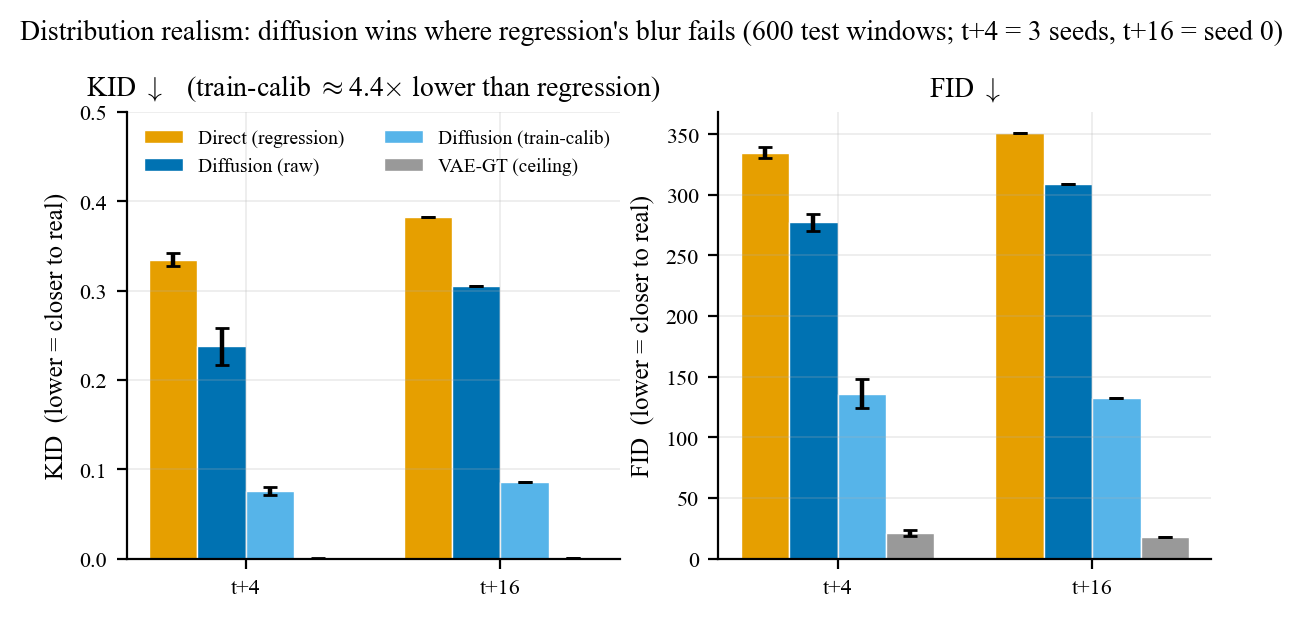
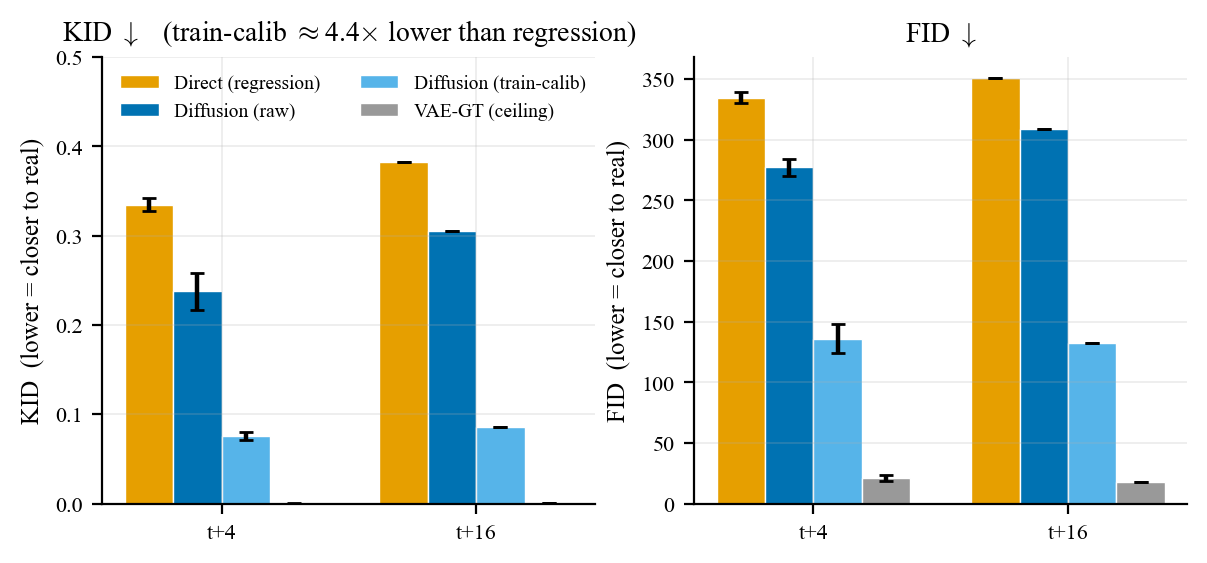
Remove top title from fig_fidkid in script and artifacts

diff --git a/scripts/make_report_figures.py b/scripts/make_report_figures.py
@@ -61,9 +61,6 @@ def f6(profile):
     axes[0].set_title(f"KID $\\downarrow$   (train-calib $\\approx${dr/cc:.1f}$\\times$ lower than regression)")
     axes[1].set_title("FID $\\downarrow$")
     axes[0].legend(frameon=False, ncol=2, loc="upper left", fontsize=plt.rcParams["legend.fontsize"]-1)
-    fig.suptitle("Distribution realism: diffusion wins where regression's blur fails "
-                 "(600 test windows; t+4 = 3 seeds, t+16 = seed 0)", y=1.04,
-                 fontsize=plt.rcParams["axes.titlesize"])
     return S.savefig(fig, "fig_fidkid", profile)
 
 